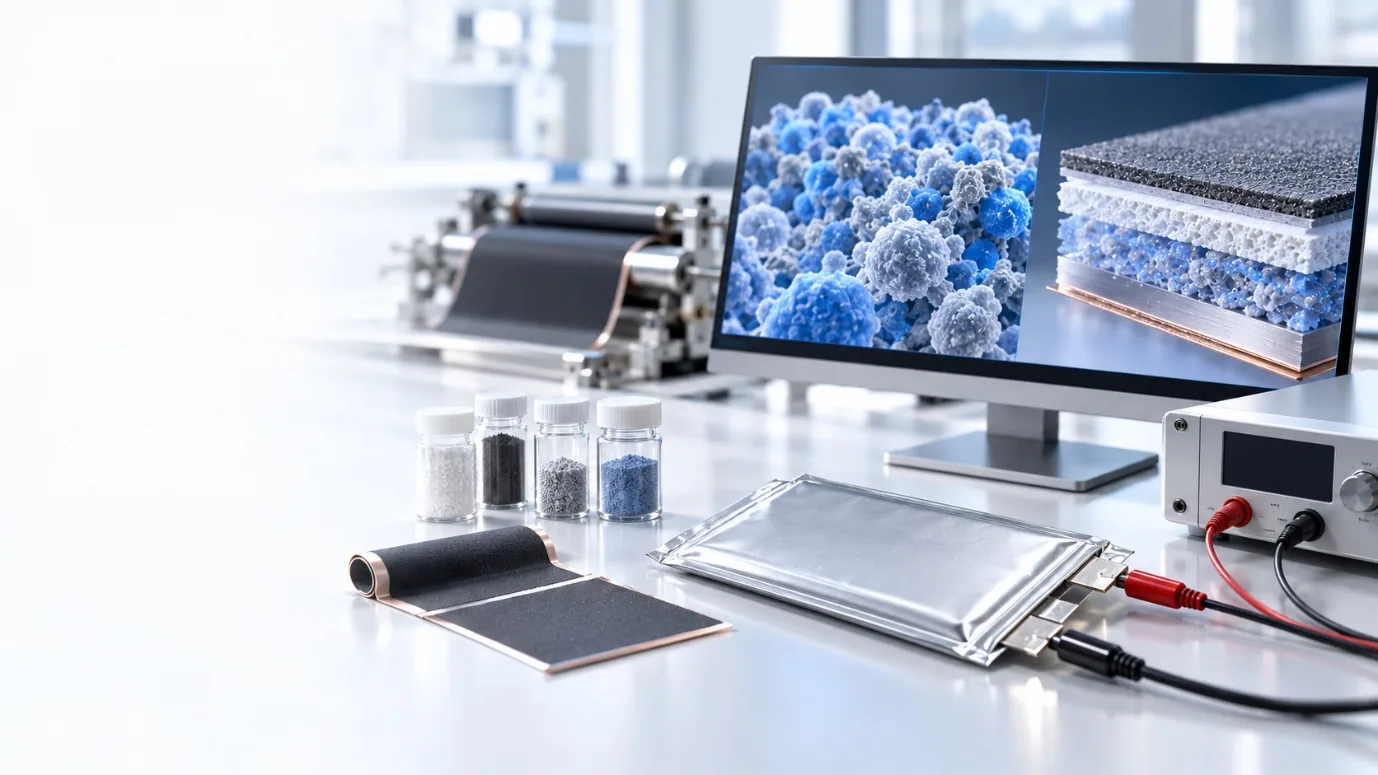
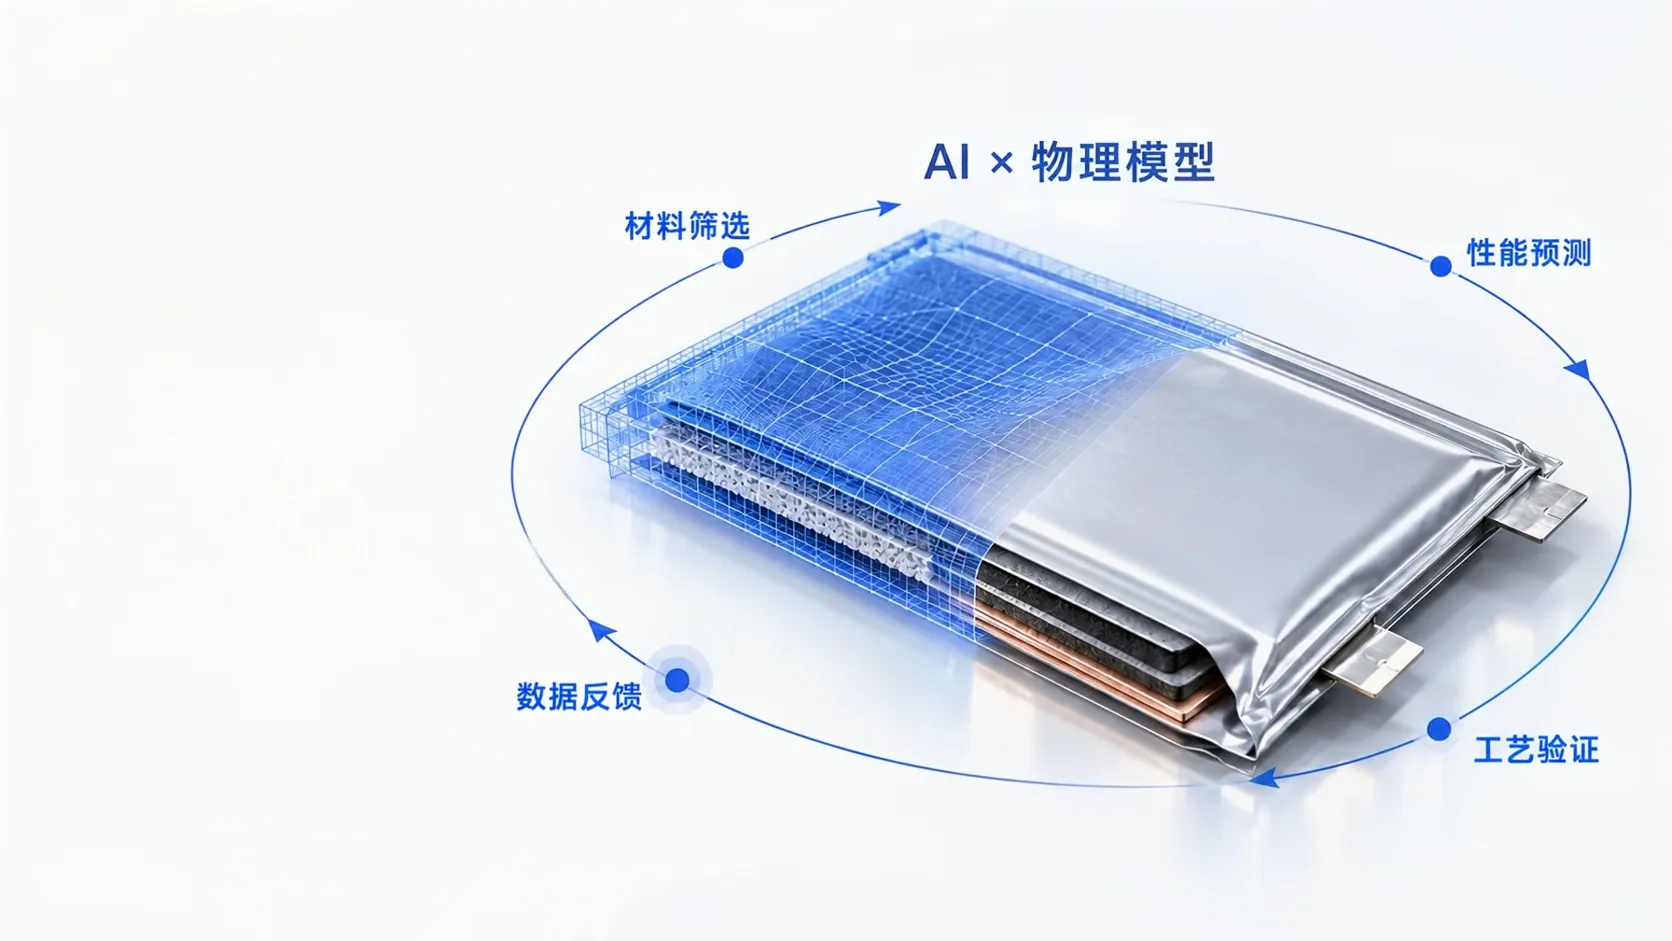
feat(technology): new core-technique artwork and copy
Replace the six carousel renders with the latest set and rewrite the
copy for each: oxide/gel electrolytes, silicon-carbon and anode-free
anodes, rapid-heating charging, and AI-driven R&D.

The new renders are 1672x941 with a clean left band (241-254 luma,
under 1% dark pixels), so the copy reads without a scrim.

Layout fixes that came with it:
- split the slide number into its own grid column, so a wrapped title
  lines up with the first character instead of the number, and the
  summary shares that column
- slide 01 breaks after the first phrase; slide 04 stays on one line
  on desktop by widening the copy column
- on phones the copy now sits over the picture instead of below it,
  stepped down to 8-12.5px and held inside the left blank band (34%)

diff --git a/components/technology/CoreTechCarousel.tsx b/components/technology/CoreTechCarousel.tsx
@@ -35,12 +35,9 @@ interface CoreTechCarouselProps {
  * the crop intact.
  *
  * The copy sits straight on the picture in plain white — no scrim, no
- * panel, no shadow. These renders measure 164–222 luma where the text
- * sits, so white scores only about 1.3–3.9 against them, under the 4.5
- * that body text needs. That trade is deliberate. Legibility therefore
- * rides entirely on the artwork, which is why the two copy bands are
- * kept visually quiet in each render: 01 and 03 are clean, 02 and 05
- * still carry clutter in the lower band.
+ * panel, no shadow. These renders measure 241–254 luma across the whole
+ * band the text lands on, with under 1% of pixels below 90, so the dark
+ * copy reads without any help from the artwork.
  */
 export function CoreTechCarousel({
   label,
@@ -89,6 +86,12 @@ export function CoreTechCarousel({
   const active = slides[index];
   const points = active.points ?? [];
 
+  // 序号和标题分开:标题写在第二列里,换行后的第二行自然跟首字对齐,
+  // 不会退回序号那条线;副标题也放在同一列,所以同样从首字起。
+  const [number, ...rest] = active.title.split("｜");
+  const hasNumber = rest.length > 0;
+  const heading = hasNumber ? rest.join("｜") : active.title;
+
   return (
     <section
       ref={sectionRef}
@@ -100,9 +103,8 @@ export function CoreTechCarousel({
       onBlurCapture={() => setHeld(false)}
     >
       {/* Full-bleed picture, cross-faded on opacity alone.
-          手机用 16:9 画框 + object-contain:这五张原图比例 1.78~2.37,
-          只有 contain 能让整张图可见(2.37 的那两张上下各留 26px 暗边);
-          md 起铺满整屏。 */}
+          这六张原图都是 1672×941(16:9),和手机端的 16:9 画框同比例,
+          object-cover 在任何宽度下都刚好铺满、不裁内容; md 起占满整屏。 */}
       <div className="relative w-full aspect-[16/9] md:absolute md:inset-0 md:aspect-auto">
         {slides.map((slide, i) => (
           <div
@@ -130,34 +132,58 @@ export function CoreTechCarousel({
           所以这里不再加任何蒙版 —— 加暗色底会把留白和画面一起压暗,
           黑字也就没法读了。文案宽度由下面的 max-w 控制在留白区内。 */}
 
-      {/* Copy, laid over the picture. The section title and the technology
-          it introduces are one block at the top-left: splitting them to
-          opposite corners left 433px of dead space between them.
-          桌面端把整块文案限制在图片左侧的留白区内(24% 左右),
-          保证右侧的画面不被文字盖住。 */}
-      <div className="relative z-10 flex flex-col px-8 pt-6 pb-8 md:h-full md:px-16 md:pt-24">
-        <div className="max-w-3xl md:max-w-[340px] lg:max-w-[360px]">
+      {/* Copy, laid over the picture at every width. The section title and
+          the technology it introduces are one block at the top-left:
+          splitting them to opposite corners left 433px of dead space.
+          手机端也压在图上(画框只有 390×219,上下排会把整屏拉得过长),
+          所以字号整体收小,文案列宽限制在图片左侧留白区(约 34%)内 ——
+          这批图在文案所处高度上,32% 以内基本是留白(平均亮度 220–254),
+          超过这条线 03 号图会开始压到碳颗粒,所以宁可窄也不外扩。 */}
+      <div className="absolute inset-0 z-10 flex flex-col px-5 pt-4 pb-4 md:px-16 md:pt-24 md:pb-10">
+        <div className="max-w-[34%] md:max-w-[380px] lg:max-w-[430px]">
           {/* Section header — top-padded to clear the fixed nav. */}
           <motion.div
             initial={{ opacity: 0, y: 16 }}
             animate={{ opacity: 1, y: 0 }}
             transition={{ duration: 0.6 }}
           >
-            <p className="mb-2 text-[10px] tracking-[0.3em] text-[#A1A1AA] uppercase">
+            <p className="mb-1 text-[8px] tracking-[0.3em] text-[#A1A1AA] uppercase md:mb-2 md:text-[10px]">
               {label || "CORE TECHNOLOGY"}
             </p>
-            <h2 className="text-[clamp(1.4rem,2.2vw,2rem)] font-medium leading-tight tracking-tight text-[#0A0A0F]">
+            <h2 className="text-[12px] font-medium leading-tight tracking-tight text-[#0A0A0F] md:text-[clamp(1.4rem,2.2vw,2rem)]">
               {title}
             </h2>
           </motion.div>
 
-          <div aria-live="polite" className="mt-8 md:mt-12">
-            <h3 className="text-[clamp(1.5rem,2.6vw,2.25rem)] font-semibold leading-tight tracking-tight text-[#0A0A0F]">
-              {active.title}
-            </h3>
-            <p className="mt-2 text-sm leading-relaxed text-[#52525B] md:text-base">
-              {active.summary}
-            </p>
+          <div aria-live="polite" className="mt-2.5 md:mt-12">
+            <div
+              className={cn(
+                "grid items-baseline gap-x-[0.4em]",
+                hasNumber ? "grid-cols-[auto_minmax(0,1fr)]" : "grid-cols-1",
+              )}
+            >
+              {hasNumber && (
+                <span className="col-start-1 row-start-1 text-[12.5px] font-semibold tabular-nums text-[#0A0A0F] md:text-[clamp(1.5rem,2.6vw,2.25rem)]">
+                  {number}
+                </span>
+              )}
+              <h3
+                className={cn(
+                  "col-start-2 row-start-1 whitespace-pre-line text-[12.5px] font-semibold leading-[1.3] tracking-tight text-[#0A0A0F] md:text-[clamp(1.5rem,2.6vw,2.25rem)] md:leading-tight",
+                  !hasNumber && "col-start-1",
+                )}
+              >
+                {heading}
+              </h3>
+              <p
+                className={cn(
+                  "col-start-2 row-start-2 mt-1 text-[9.5px] leading-[1.55] text-[#52525B] md:mt-2 md:text-base md:leading-relaxed",
+                  !hasNumber && "col-start-1",
+                )}
+              >
+                {active.summary}
+              </p>
+            </div>
 
             {points.length > 0 && (
               <ul className="mt-4 flex flex-wrap gap-x-8 gap-y-2">
@@ -178,7 +204,7 @@ export function CoreTechCarousel({
             原来是 mt-auto 贴到区块底部,区块比视口高时按钮会掉到下一屏,
             得往下滚才看得到,而一滚图片上沿又出了视野。 */}
         <div
-          className="mt-8 flex items-center justify-start gap-2 md:mt-10"
+          className="mt-3 flex items-center justify-start gap-2 md:mt-10"
           onMouseEnter={() => setHeld(true)}
           onMouseLeave={() => setHeld(false)}
         >
@@ -186,9 +212,9 @@ export function CoreTechCarousel({
             type="button"
             onClick={() => go(-1)}
             aria-label="Previous technology"
-            className="grid h-10 w-10 cursor-pointer place-items-center rounded-full border border-[#E4E4E7] bg-white/90 text-[#0A0A0F] backdrop-blur-[2px] transition-colors hover:border-[#D4D4D8] hover:bg-white"
+            className="grid h-8 w-8 cursor-pointer place-items-center rounded-full border border-[#E4E4E7] bg-white/90 text-[#0A0A0F] backdrop-blur-[2px] transition-colors hover:border-[#D4D4D8] hover:bg-white md:h-10 md:w-10"
           >
-            <svg width="16" height="16" viewBox="0 0 24 24" fill="none" stroke="currentColor" strokeWidth="2" strokeLinecap="round" strokeLinejoin="round" aria-hidden="true">
+            <svg width="14" height="14" viewBox="0 0 24 24" fill="none" stroke="currentColor" strokeWidth="2" strokeLinecap="round" strokeLinejoin="round" aria-hidden="true">
               <path d="M15 18l-6-6 6-6" />
             </svg>
           </button>
@@ -196,9 +222,9 @@ export function CoreTechCarousel({
             type="button"
             onClick={() => go(1)}
             aria-label="Next technology"
-            className="grid h-10 w-10 cursor-pointer place-items-center rounded-full border border-[#E4E4E7] bg-white/90 text-[#0A0A0F] backdrop-blur-[2px] transition-colors hover:border-[#D4D4D8] hover:bg-white"
+            className="grid h-8 w-8 cursor-pointer place-items-center rounded-full border border-[#E4E4E7] bg-white/90 text-[#0A0A0F] backdrop-blur-[2px] transition-colors hover:border-[#D4D4D8] hover:bg-white md:h-10 md:w-10"
           >
-            <svg width="16" height="16" viewBox="0 0 24 24" fill="none" stroke="currentColor" strokeWidth="2" strokeLinecap="round" strokeLinejoin="round" aria-hidden="true">
+            <svg width="14" height="14" viewBox="0 0 24 24" fill="none" stroke="currentColor" strokeWidth="2" strokeLinecap="round" strokeLinejoin="round" aria-hidden="true">
               <path d="M9 6l6 6-6 6" />
             </svg>
           </button>

diff --git a/components/technology/TechnologyPage.tsx b/components/technology/TechnologyPage.tsx
@@ -15,11 +15,11 @@ import { useCmsContent } from "@/lib/cms/use-cms";
 // Fixed slide imagery. The CMS owns the copy, never the pictures.
 // 顺序与文件名 01–06 一致,与 messages 里 coreTech.slides 的六条文案逐条对应。
 const CORE_TECH_IMAGES = [
-  "/images/technology/tech/01-oxide-electrolyte.webp",
-  "/images/technology/tech/02-condensed-electrolyte.webp",
-  "/images/technology/tech/03-silicon-anode.webp",
-  "/images/technology/tech/04-anode-free.webp",
-  "/images/technology/tech/05-fast-charging.webp",
+  "/images/technology/tech/01-oxide-solid-electrolyte.webp",
+  "/images/technology/tech/02-gel-electrolyte.webp",
+  "/images/technology/tech/03-silicon-carbon-anode.webp",
+  "/images/technology/tech/04-anode-free-lithium-metal.webp",
+  "/images/technology/tech/05-rapid-thermal-charging.webp",
   "/images/technology/tech/06-ai-rnd.webp",
 ];
 
